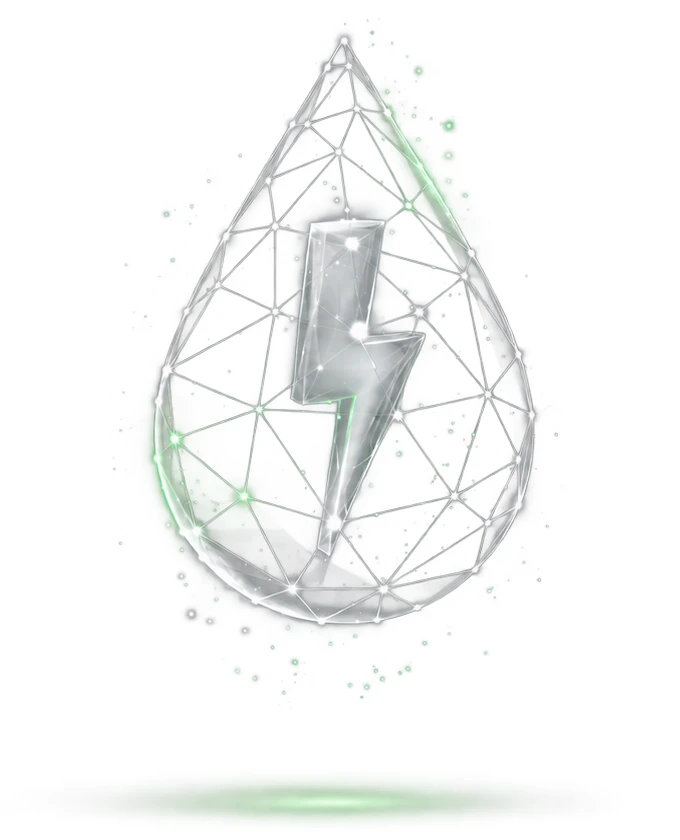
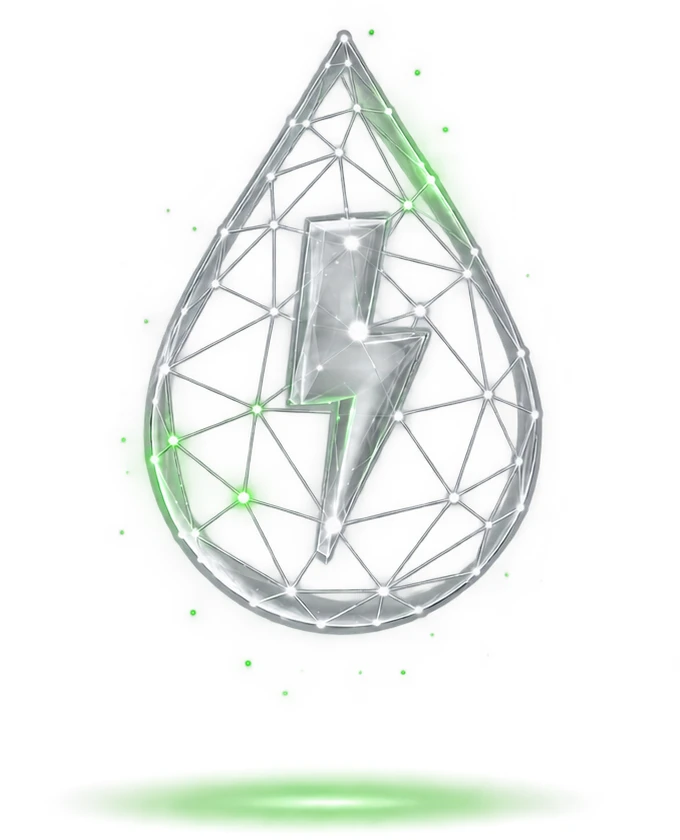
Utility hero: sharper droplet image
Claude-Session: https://claude.ai/code/session_01Q8SfPFzKec2UT1Fop63zbA

diff --git a/utility-services.html b/utility-services.html
@@ -11282,7 +11282,7 @@ input, select, textarea {
         </div>
         <div class="msr-band">
           <span class="msr-glow" aria-hidden="true"></span>
-          <img class="msr-photo ut-hero-img" src="assets/ut-hero-drop.webp" alt="Water droplet with a lightning bolt representing electricity and water services" width="680" height="840" fetchpriority="high" decoding="async">
+          <img class="msr-photo ut-hero-img" src="assets/ut-hero-drop.webp?v=2" alt="Water droplet with a lightning bolt representing electricity and water services" width="680" height="840" fetchpriority="high" decoding="async">
           <div class="msr-tags"><a class="msr-tag" href="#municipality-utility-services" style="--d:0.00s"><i aria-hidden="true"><svg viewBox="0 0 24 24"><rect x="5" y="3" width="14" height="18" rx="2"/><path d="M9 8h6M9 12h6M9 16h3"/></svg></i>Municipality letter</a><a class="msr-tag" href="#municipality-utility-services" style="--d:0.10s"><i aria-hidden="true"><svg viewBox="0 0 24 24"><path d="M4 11 12 4l8 7v9H4z"/><path d="M10 20v-5h4v5"/></svg></i>Lease registration</a><a class="msr-tag" href="#municipality-utility-services" style="--d:0.20s"><i aria-hidden="true"><svg viewBox="0 0 24 24"><circle cx="12" cy="8" r="3.5"/><path d="M5 20a7 7 0 0 1 14 0"/></svg></i>Municipality account</a><a class="msr-tag" href="#municipality-utility-services" style="--d:0.30s"><i aria-hidden="true"><svg viewBox="0 0 24 24"><path d="M13 2 4 14h7l-1 8 9-12h-7z"/></svg></i>Electricity &amp; water</a><a class="msr-tag" href="#municipality-utility-services" style="--d:0.40s"><i aria-hidden="true"><svg viewBox="0 0 24 24"><path d="M4 8h13l-3-3M20 16H7l3 3"/></svg></i>Utility transfer</a></div>
         </div>
       </div>
